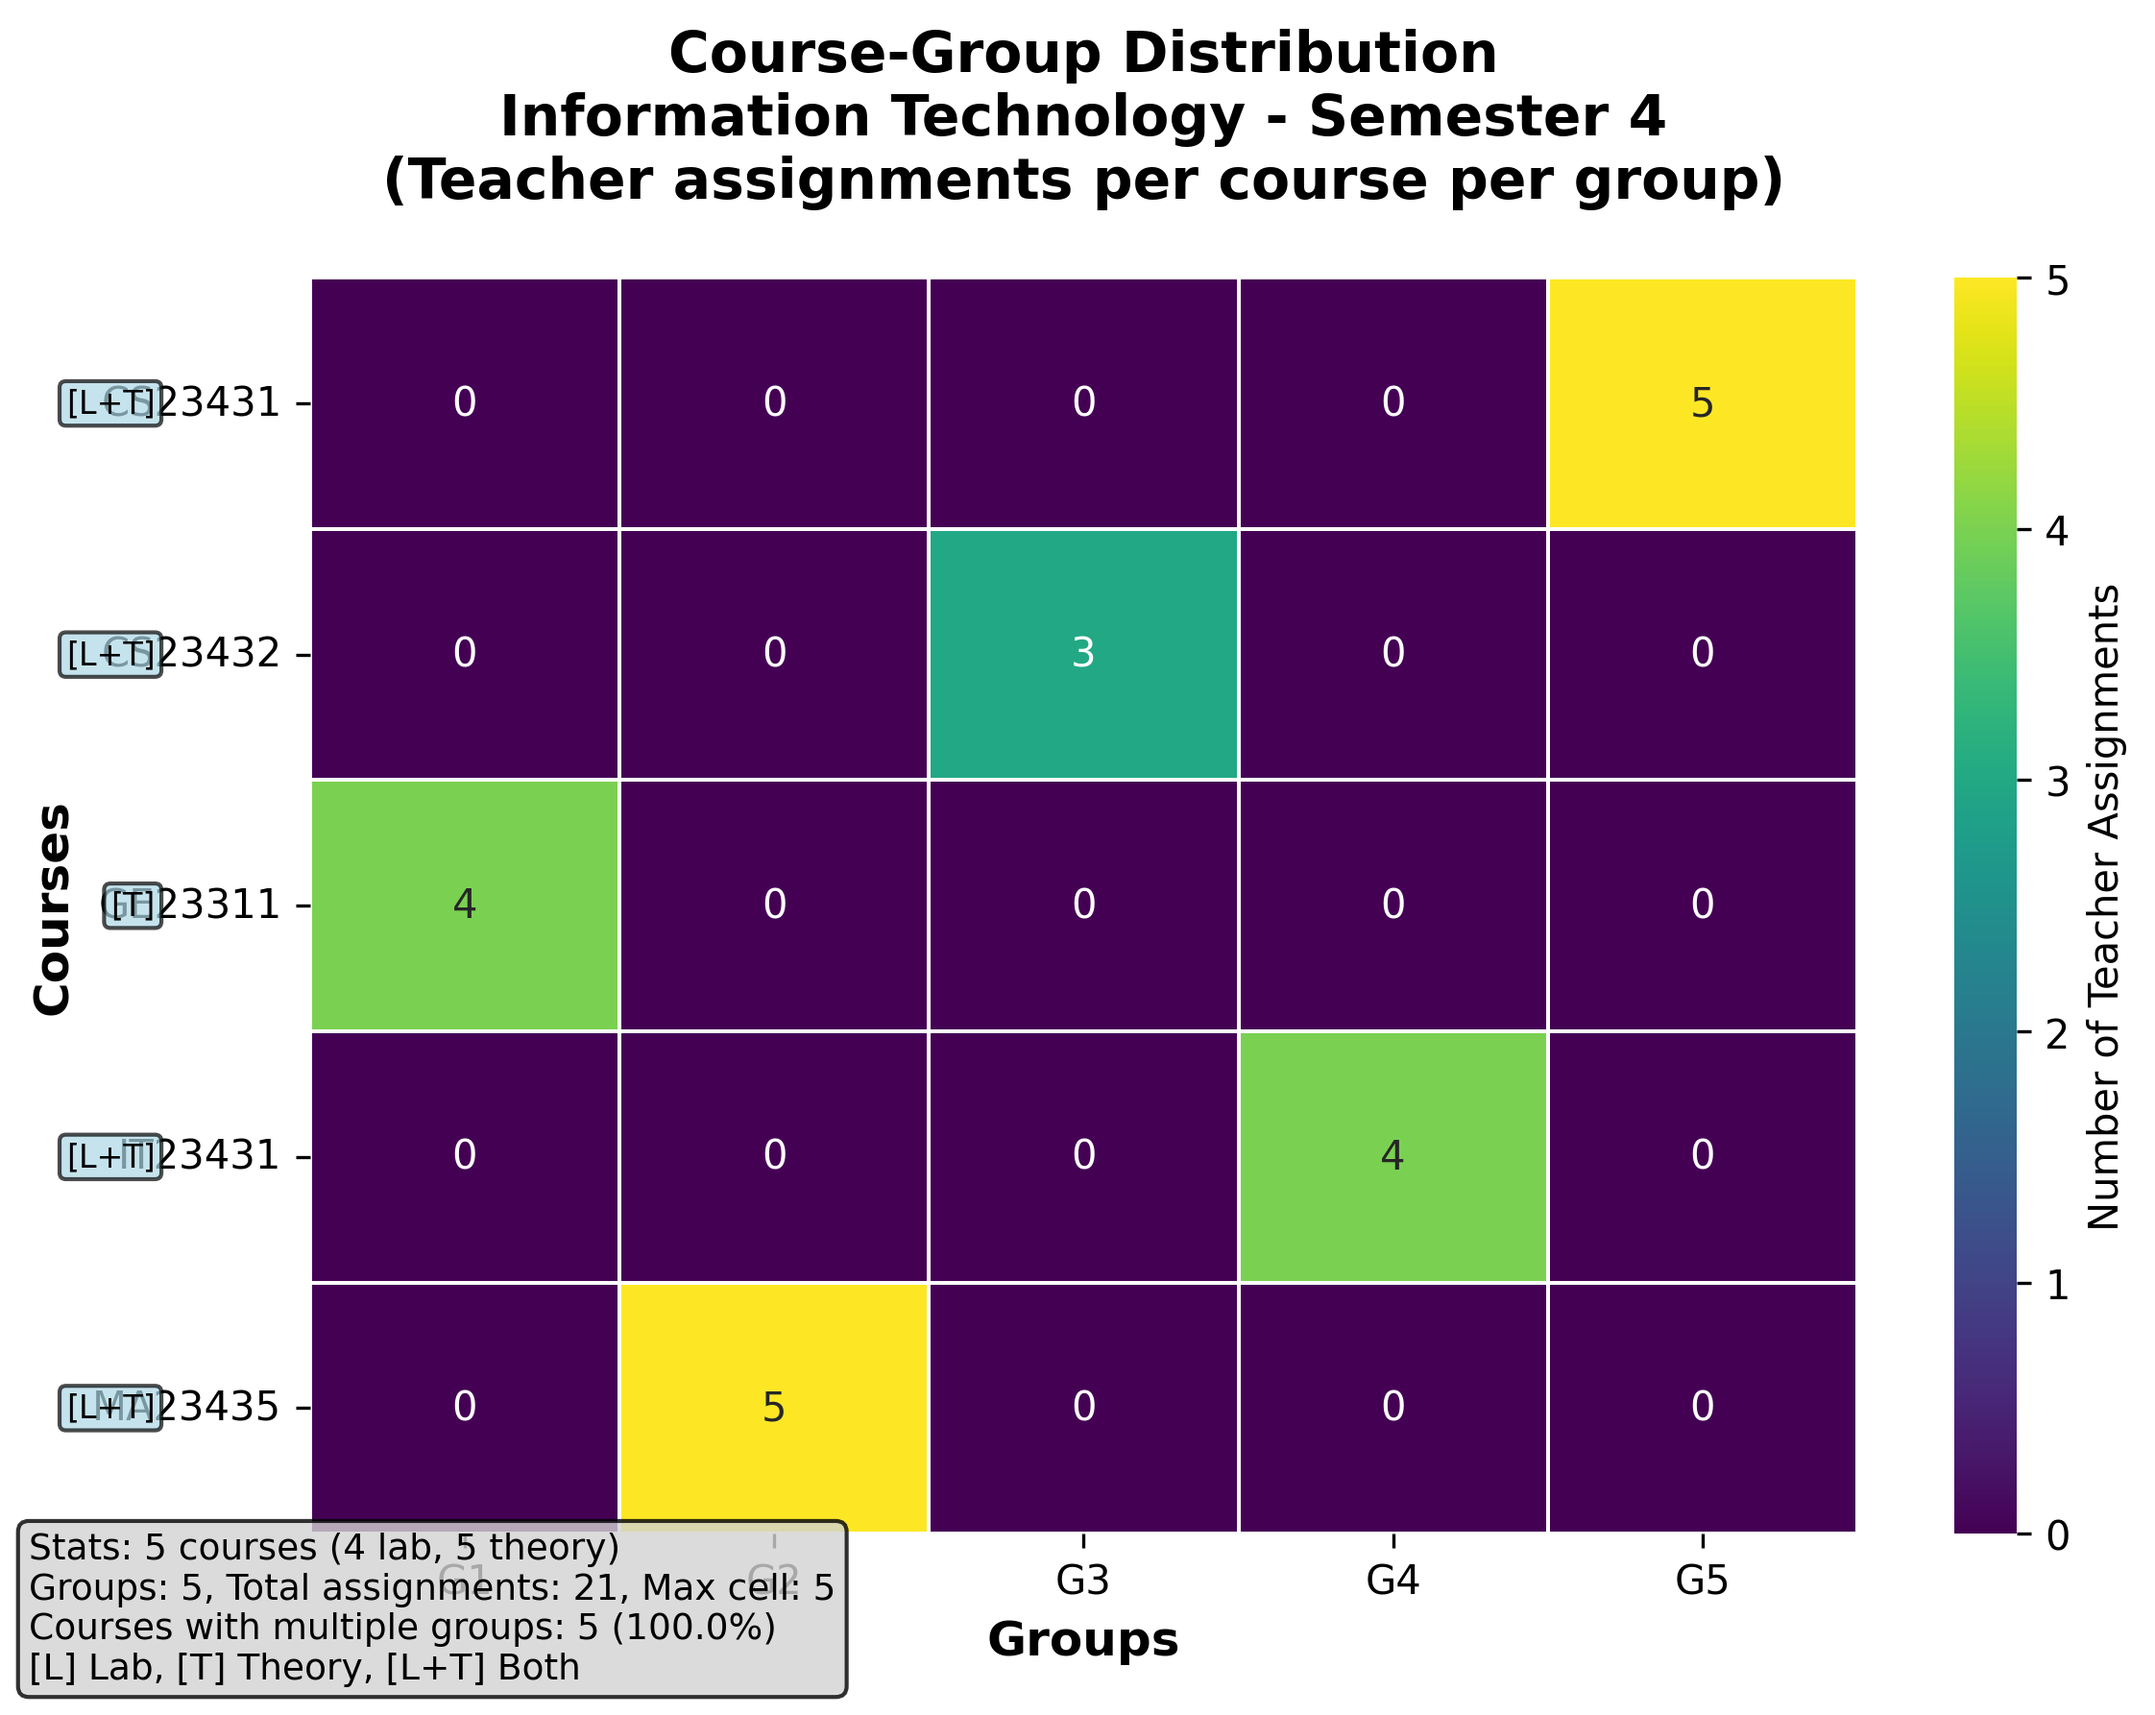
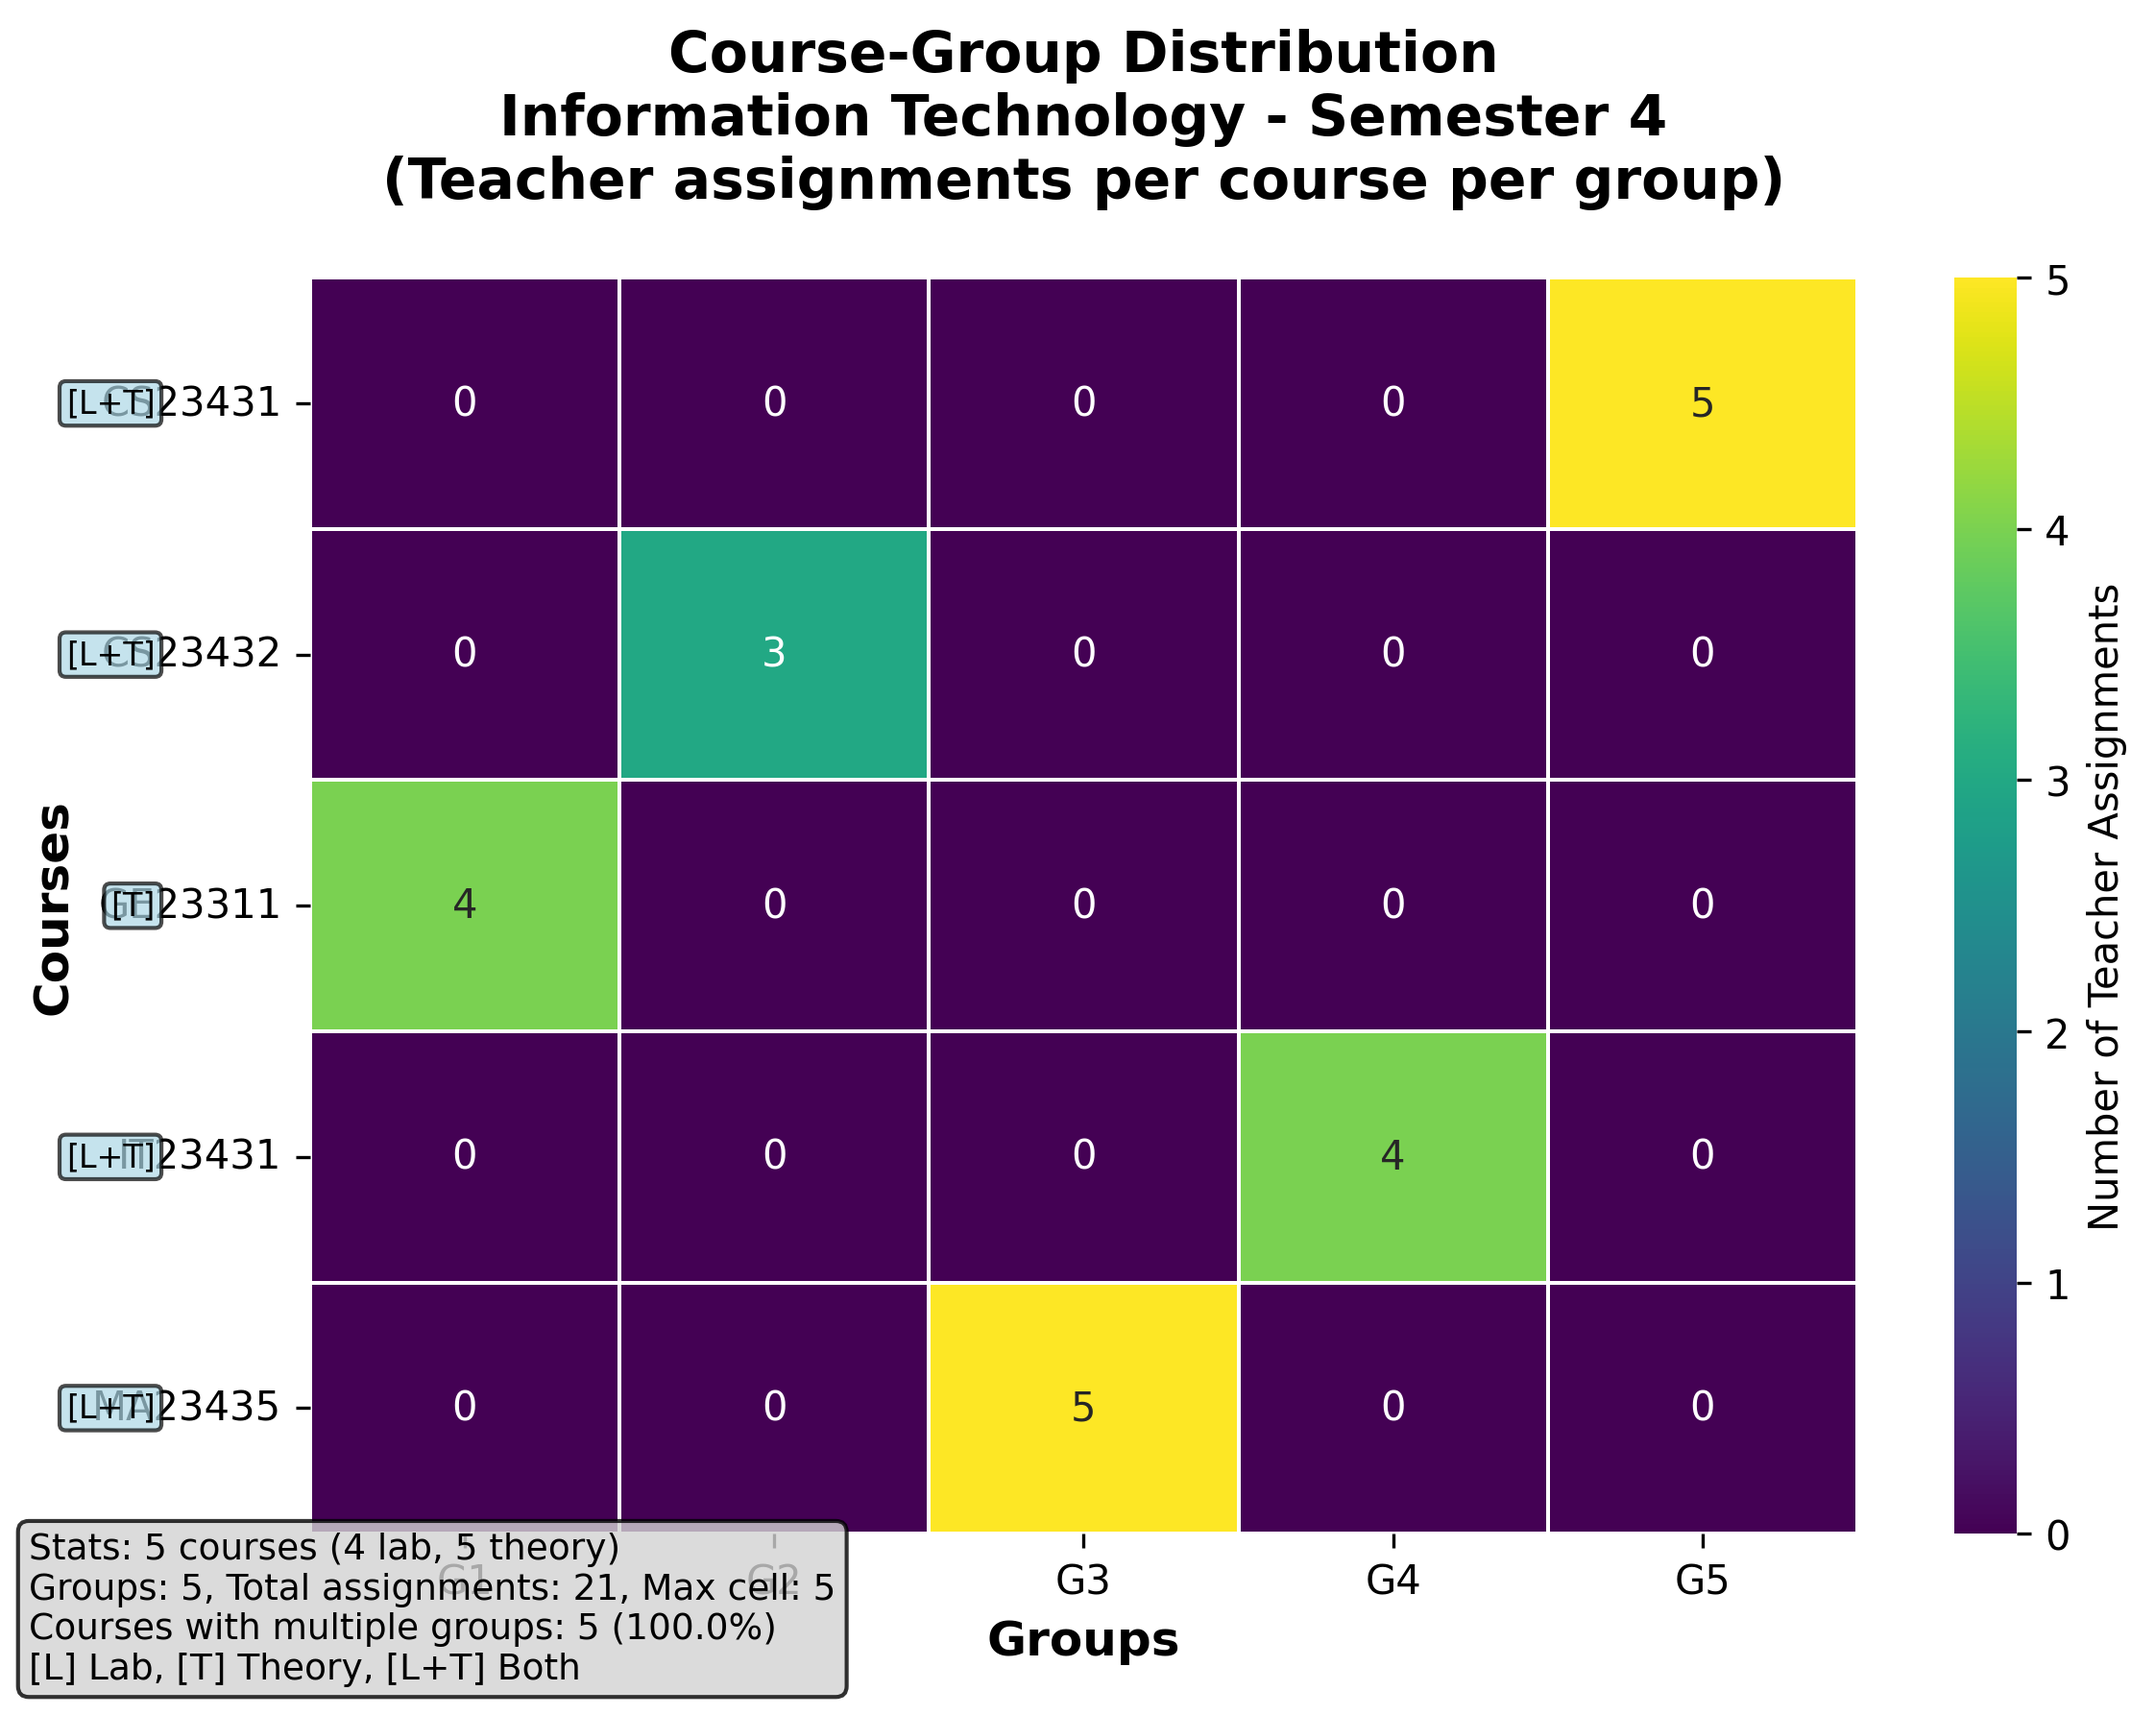
feat: pop constraint

Changed region(s): [[0.2807, 0.7391, 0.5927, 0.8931], [0.2807, 0.308, 0.5927, 0.4619]]

diff --git a/src/constraints/cross_system/pop_day.py b/src/constraints/cross_system/pop_day.py
@@ -155,20 +155,23 @@ class PopDayConstraint(Constraint):
         teacher_days: Dict[str, Set[int]] = {}
         for row in pop_data:
             # Get teacher ID and normalize it (handle float like "413.0" -> "413")
-            raw_tid = row.get("id_faculty", "").strip()
+            raw_tid = row.get("Teacher ID", "").strip()
             if not raw_tid:
                 continue
             teacher_id = self._normalize_teacher_id(raw_tid)
 
-            # Get preferred days
-            day1 = self._normalize_day(row.get("preffered_day_1", "").strip())
-            day2 = self._normalize_day(row.get("preffered_day_2", "").strip())
+            # Get preferred days (support up to 3 preferred days)
+            day1 = self._normalize_day(row.get("Preferred Day 1", "").strip())
+            day2 = self._normalize_day(row.get("Preferred Day 2", "").strip())
+            day3 = self._normalize_day(row.get("Preferred Day 3", "").strip())
 
             allowed_indices = set()
             if day1 and day1 != "-" and day1 in day_name_to_index:
                 allowed_indices.add(day_name_to_index[day1])
             if day2 and day2 != "-" and day2 in day_name_to_index:
                 allowed_indices.add(day_name_to_index[day2])
+            if day3 and day3 != "-" and day3 in day_name_to_index:
+                allowed_indices.add(day_name_to_index[day3])
 
             if allowed_indices:
                 if teacher_id in teacher_days:
